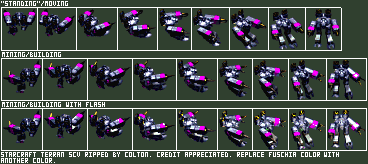
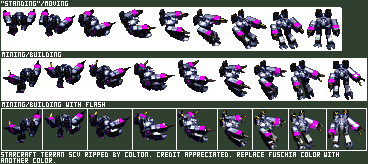
Semi-Functioning SCVs added

Changed region(s): [[0.0, 0.3354, 1.0, 0.6098], [0.0, 0.0305, 0.9266, 0.3049]]

diff --git a/JavaRTS/src/Units/SCV.java b/JavaRTS/src/Units/SCV.java
@@ -2,92 +2,85 @@ package Units;
 
 import javax.imageio.ImageIO;
 import java.awt.*;
-import java.awt.event.MouseEvent;
 import java.awt.geom.AffineTransform;
 import java.awt.image.AffineTransformOp;
 import java.awt.image.BufferedImage;
 import java.io.File;
 import java.io.IOException;
 
-public class SovietConscript extends Unit {
+public class SCV extends Unit {
 
-    private static BufferedImage[][] image = new BufferedImage[17][8];
+    private static BufferedImage[][] image = new BufferedImage[16][2];
+    private static String filePath = "res/SCV.png";
     private int curImageX, curImageY;
-    private static String filePath = "res/CivSprite.png";
 
-    public SovietConscript(double x, double y) {
+    public SCV() {
+        super();
+    }
+
+    public SCV(double x, double y) {
         super(x, y);
-        int[] xPoints = {-10, 11, 11, -10};
-        int[] yPoints = {-16, -16, 16, 16};
-        clickArea = new Polygon(xPoints, yPoints, 4);
-        int[] xPoints2 = {-7, 7, 7, -7};
-        int[] yPoints2 = {1, 1, 14, 14};
-        area = new Polygon(xPoints2, yPoints2, 4);
+        curImageY = 0;
+        curImageX = 0;
         spaceUnits = 1;
+        maxVelocity = 20;
+        int[] xPoints = {-19, 19, 19, -19};
+        int[] yPoints = {-21, -21, 21, 21};
+        clickArea = new Polygon(xPoints, yPoints, 4);
+        int[] xPoints2 = {-15, 15, 15, -15};
+        int[] yPoints2 = {-1, -1, 21, 21};
+        area = new Polygon(xPoints2, yPoints2, 4);
         try {
             BufferedImage temp = ImageIO.read(new File(filePath));
-            for (int i = 0; i < image.length; i++) {
+            image[0][0] = temp.getSubimage(2, 8, 35, 42);
+            image[1][0] = temp.getSubimage(38, 8, 38, 42);
+            image[2][0] = temp.getSubimage(77, 8, 40, 42);
+            image[3][0] = temp.getSubimage(118, 8, 39, 42);
+            image[4][0] = temp.getSubimage(158, 8, 33, 42);
+            image[5][0] = temp.getSubimage(192, 8, 37, 42);
+            image[6][0] = temp.getSubimage(230, 8, 38, 42);
+            image[7][0] = temp.getSubimage(269, 8, 36, 42);
+            image[8][0] = temp.getSubimage(306, 8, 35, 42);
+            image[0][1] = temp.getSubimage(2, 59, 40, 41);
+            image[1][1] = temp.getSubimage(43, 59, 44, 41);
+            image[2][1] = temp.getSubimage(88, 59, 44, 41);
+            image[3][1] = temp.getSubimage(133, 59, 43, 41);
+            image[4][1] = temp.getSubimage(177, 59, 40, 41);
+            image[5][1] = temp.getSubimage(218, 59, 34, 41);
+            image[6][1] = temp.getSubimage(253, 59, 35, 41);
+            image[7][1] = temp.getSubimage(289, 59, 37, 41);
+            image[8][1] = temp.getSubimage(327, 59, 39, 41);
+            for (int i = 9; i < image.length; i++) {
                 for (int j = 0; j < image[0].length; j++) {
-                    if (i < 16) {
-                        if (i < 9) {
-                            image[i][j] = temp.getSubimage(i * 21, j * 32, 21, 32);
-                        } else {
-                            AffineTransform flip = AffineTransform.getScaleInstance(-1, 1);
-                            flip.translate(-image[16 - i][j].getWidth(null), 0);
-                            AffineTransformOp op = new AffineTransformOp(flip, AffineTransformOp.TYPE_NEAREST_NEIGHBOR);
-                            image[i][j] = op.filter(image[16 - i][j], null);
-                        }
-                    } else {
-                        if (j < 4) {
-                            image[i][j] = temp.getSubimage((j % 4) * 60, temp.getHeight() - 37 * 2, 60, 37);
-                        } else {
-                            image[i][j] = temp.getSubimage((j % 4) * 60, temp.getHeight() - 37, 60, 37);
-                        }
-                    }
+                    AffineTransform flip = AffineTransform.getScaleInstance(-1, 1);
+                    flip.translate(-image[i - image.length / 2][j].getWidth(null), 0);
+                    AffineTransformOp op = new AffineTransformOp(flip, AffineTransformOp.TYPE_NEAREST_NEIGHBOR);
+                    image[i][j] = op.filter(image[i - image.length / 2][j], null);
                 }
             }
         } catch (IOException e) {
             e.printStackTrace();
         }
-        curImageX = 0;
-        curImageY = 0;
-        maxVelocity = 15;
     }
 
     @Override
-    public void update(double t) {//where t is time in milliseconds
-        timePassed += t;
+    public void update(double time) {
         moveToFocus();
-        /*angle+=(t/1000*0.3)/16.0*2*Math.PI;
-        if(angle>Math.PI*2){
-            angle=0;
-        }*/
         calcCurImage();
-        if (moving) {//move this into a separate method
-            if (timePassed >= (1.0 / 2.0 * 1000)) {
-                if (curImageY >= 7) {
-                    curImageY = 0;
-                } else {
-                    curImageY++;
-                }
-                timePassed = 0;
-            } else {
-
-            }
-        } else {
-            curImageY = 2;
+        if (!moving) {
+            curImageY = 0;
             if (angle != Math.PI * 3 / 2) {
-                if (angle > Math.PI * 3 / 2 || angle<=Math.PI/2) {
+                if (angle > Math.PI * 3 / 2 || angle <= Math.PI / 2) {
                     if (angle < Math.PI * 3 / 2 + Math.PI / 64 && angle > Math.PI * 3 / 2) {
                         angle = Math.PI * 3 / 2;
                     } else {
-                        angle -= (t / 1000 * 0.25) * Math.PI * 2;
+                        angle -= (time / 1000 * 0.25) * Math.PI * 2;
                     }
                 } else {
                     if (angle > Math.PI * 3 / 2 - Math.PI / 64 && angle < Math.PI * 3 / 2) {
                         angle = Math.PI * 3 / 2;
                     } else {
-                        angle += (t / 1000 * 0.25) * Math.PI * 2;
+                        angle += (time / 1000 * 0.25) * Math.PI * 2;
                     }
                 }
                 if (angle < 0) {
@@ -95,12 +88,7 @@ public class SovietConscript extends Unit {
                 }
             }
         }
-
-        super.move(t);
-    }
-
-    public boolean getNumFocusPoints() {
-        return focusPoints.size() <= 0;
+        super.move(time);
     }
 
     public void calcCurImage() {
@@ -115,19 +103,19 @@ public class SovietConscript extends Unit {
         } else if (angle >= 3.5 / 16.0 * Math.PI * 2.0 && angle < 4.5 / 16.0 * Math.PI * 2.0) {
             curImageX = 8;
         } else if (angle >= 4.5 / 16.0 * Math.PI * 2.0 && angle < 5.5 / 16.0 * Math.PI * 2.0) {
-            curImageX = 9;
+            curImageX = 15;
         } else if (angle >= 5.5 / 16.0 * Math.PI * 2.0 && angle < 6.5 / 16.0 * Math.PI * 2.0) {
-            curImageX = 10;
+            curImageX = 14;
         } else if (angle >= 6.5 / 16.0 * Math.PI * 2.0 && angle < 7.5 / 16.0 * Math.PI * 2.0) {
-            curImageX = 11;
+            curImageX = 13;
         } else if (angle >= 7.5 / 16.0 * Math.PI * 2.0 && angle < 8.5 / 16.0 * Math.PI * 2.0) {
             curImageX = 12;
         } else if (angle >= 8.5 / 16.0 * Math.PI * 2.0 && angle < 9.5 / 16.0 * Math.PI * 2.0) {
-            curImageX = 13;
+            curImageX = 11;
         } else if (angle >= 9.5 / 16.0 * Math.PI * 2.0 && angle < 10.5 / 16.0 * Math.PI * 2.0) {
-            curImageX = 14;
+            curImageX = 10;
         } else if (angle >= 10.5 / 16.0 * Math.PI * 2.0 && angle < 11.5 / 16.0 * Math.PI * 2.0) {
-            curImageX = 15;
+            curImageX = 9;
         } else if (angle >= 11.5 / 16.0 * Math.PI * 2.0 && angle < 12.5 / 16.0 * Math.PI * 2.0) {
             curImageX = 0;
         } else if (angle >= 12.5 / 16.0 * Math.PI * 2.0 && angle < 13.5 / 16.0 * Math.PI * 2.0) {
@@ -148,14 +136,4 @@ public class SovietConscript extends Unit {
     public void draw(Graphics g) {
         g.drawImage(image[curImageX][curImageY], (int) xPos - image[curImageX][curImageY].getWidth() / 2, (int) yPos - image[curImageX][curImageY].getHeight() / 2, null);
     }
-
-    @Override
-    public void passInMouseReleasedEvent(MouseEvent e) {
-        if (shift) {
-            addFocusPoint(e.getX(), e.getY());
-        } else {
-            setFocusPoint(e.getX(), e.getY());
-        }
-    }
-
 }

diff --git a/JavaRTS/src/Units/Unit.java b/JavaRTS/src/Units/Unit.java
@@ -66,6 +66,35 @@ public abstract class Unit extends GameObject {
         focusPoints.add(new Point(x, y));
     }
 
+    public void addFocusPoint(int x, int y) {
+        focusPoints.add(new Point(x, y));
+    }
+
+    public void calcAngle(int x, int y) {
+        double dx = (double) x - xPos;
+        double dy = -(yPos - (double) y);
+        angle = Math.atan2(dy, dx);
+        if (angle < 0) {
+            angle += 2 * Math.PI;
+        }
+    }
+
+    public void moveToFocus() throws ArrayIndexOutOfBoundsException {
+        if (focusPoints.size() > 0) {
+            if (-1 <= (xPos - focusPoints.get(0).x) && (xPos - focusPoints.get(0).x) <= 1 && -1 <= (yPos - focusPoints.get(0).y) && (yPos - focusPoints.get(0).y) <= 1) {
+                xPos = focusPoints.get(0).x;
+                yPos = focusPoints.get(0).y;
+                focusPoints.remove(0);
+                if (focusPoints.size() <= 0) {
+                    moving = false;
+                }
+            } else {
+                calcAngle(focusPoints.get(0).x, focusPoints.get(0).y);
+                moving = true;
+            }
+        }
+    }
+
     @Override
     public boolean isInArea(Point p) {
         return clickArea.contains(p);

diff --git a/JavaRTS/src/Structures/Barracks.java b/JavaRTS/src/Structures/Barracks.java
@@ -1,6 +1,8 @@
 package Structures;
 
+import Units.SCV;
 import Units.SovietConscript;
+import Units.Unit;
 import main.MainClass;
 
 import javax.imageio.ImageIO;
@@ -51,18 +53,16 @@ public class Barracks extends Structure {
         spawnTimer += time;
         if (spawnTimer >= 10 / 1 * 1000) {
             spawnTimer = 0;
-            SovietConscript sov = new SovietConscript(xPos, yPos + 65);
+            Unit sov;
+            if (Math.random() > 0.5) {
+                sov = new SovietConscript(xPos, yPos + 65);
+            } else {
+                sov = new SCV(xPos, yPos + 65);
+            }
             sov.setFocusPoint((int) (Math.random() * 1000 + 10), (int) (Math.random() * 1000 + 10));
             MainClass.focusables.add(sov);
         }
-//        if (timePassed > (2.25 / 1 * 1000)) {
-//            if (curImage >= 6) {
-//                curImage = 0;
-//            } else {
-//                curImage++;
-//            }
-//            timePassed = 0;
-//        }
+
     }
 
     @Override

diff --git a/JavaRTS/src/main/MainClass.java b/JavaRTS/src/main/MainClass.java
@@ -7,6 +7,7 @@ import Structures.Barracks;
 import Structures.CommandCentre;
 import Tiles.TileMap;
 import Units.Formation;
+import Units.SCV;
 import Units.Unit;
 
 import javax.imageio.ImageIO;
@@ -49,6 +50,7 @@ public class MainClass extends JPanel implements KeyListener, MouseListener {
         focusables.add(new Vespene(1380, 550));
         focusables.add(new Vespene(1470, 500));
         focusables.add(new Vespene(1525, 570));
+        focusables.add(new SCV(1250, 750));
 
         try {
             gameMap = new TileMap("res/DefaultMap.txt");

diff --git a/JavaRTS/src/main/GameObject.java b/JavaRTS/src/main/GameObject.java
@@ -10,7 +10,7 @@ public abstract class GameObject implements Controllable {
     protected double xPos, yPos;
     protected Polygon area;
     protected float HP;
-    protected double timePassed;
+    protected double timePassed = 0;
 
     public GameObject() {
         xPos = 0;
